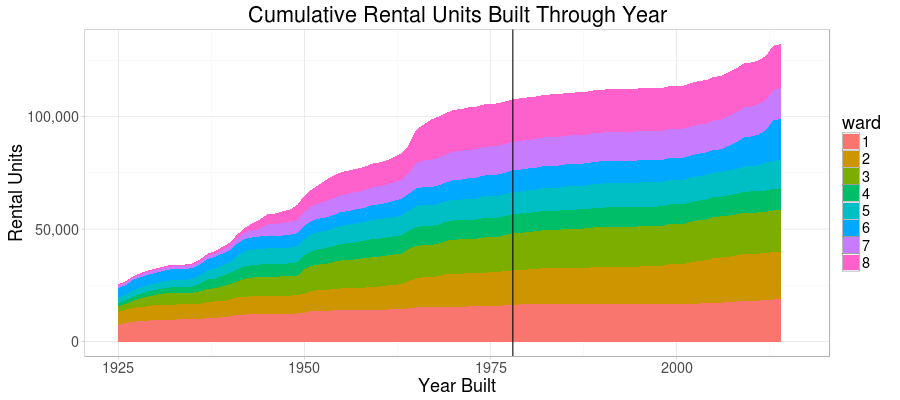
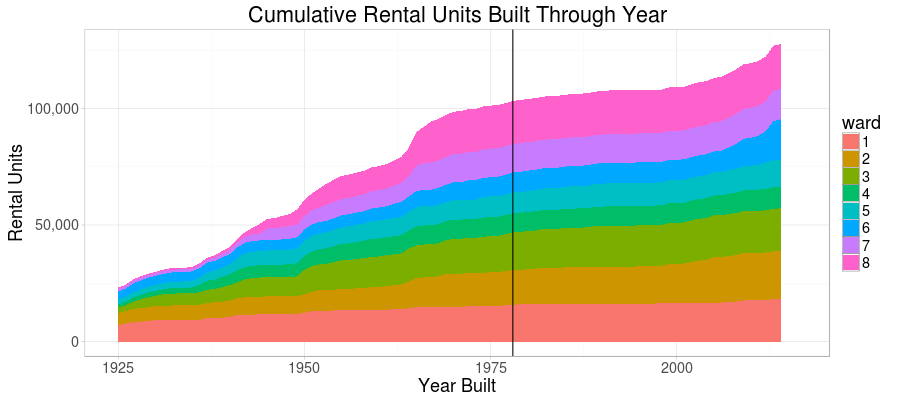
analysis fixes in aggregate rental units
Change the distribution applied to the "2-4" units use code from uniform to highly skewed to 2 units.

Subtract one from the aggregate units owned to go from aggregate *residential* units to aggregate *rental* units, per our assumption that each natural person owner occupies one of their own units (making it not rental).

diff --git a/residential-units.py b/residential-units.py
@@ -115,9 +115,10 @@ for fn in ("cama_residential.csv", "cama_condominium.csv", "cama_commercial.csv"
 			# We don't know how many units this structure has but it's between 2 and 4.
 			# We could take a best guess, like 3, but lumping everything into a single
 			# value makes further analysis look funky. So we'll spread it out between
-			# 2 and 4. We're making an assumption here that this use code is evenly
-			# spread between 2 and 4 units.
-			unit_count = random.choice([2,3,4])
+			# 2 and 4. Based on some post-hoc analysis, it looks like 2 and 3 units are
+			# more common than 4 -- it makes the results smoother when comparing to
+			# 5.
+			unit_count = random.choice([2,2,2,2,2,2,3,3,3,4])
 			exploded = True
 		elif use_code_info["units"] == "5":
 			unit_count = 5

diff --git a/owner-aggregate-units.py b/owner-aggregate-units.py
@@ -15,9 +15,14 @@ with open("/tmp/all-residential-units.csv", "w") as f:
 	header = None
 	for row in csv.reader(open("data/all-residential-units.csv")):
 		if header == None:
-			row.append("owner_aggregate_units")
+			if row[-1] != "owner_aggregate_units":
+				row.append("owner_aggregate_units")
+				has_col = False
+			else:
+				has_col = True
 			header = row
 		else:
+			if has_col: row.pop(-1)
 			owner_name = row[header.index("owner_name")]
 			row.append(aggregate_units[owner_name])
 		writer.writerow(row)

diff --git a/analysis.md b/analysis.md
@@ -34,7 +34,7 @@ From the CAMA dataset, we pulled out residential properties as identified by the
 
 CAMA's unit of analysis is an owned property, which can be a house, a large apartment building, or a single condominium unit. We broke out the CAMA data into residential housing units (i.e. apartments, single-family homes and condos, etc.).
 
-However, the CAMA data does not precisely indicate how many housing units are contained within each record, even though the CAMA datasets have a number-of-units field. Where this field was empty, which includes most small residential properties, we used the use code, which indicates if the property has 1, 2-4, 5, or an unknown number of housing units. Where the use code indicated 2-4 units, we randomly assigned each property 2, 3, or 4 housing units. Where the use code did not indicate a number, we omitted the property from our analysis.
+However, the CAMA data does not precisely indicate how many housing units are contained within each record, even though the CAMA datasets have a number-of-units field. Where this field was empty, which includes most small residential properties, we used the use code, which indicates if the property has 1, 2-4, 5, or an unknown number of housing units. Where the use code indicated 2-4 units, we randomly gave the property 2, 3, or 4 housing units using a non-uniform distribution: 60% to 2 units, 30% to 3, and 10% to 4. (This distribution was informed by a post-hoc analysis.) Where neither CAMA nor the use code indicated a number, we omitted the property from our analysis (but very few properties were excluded).
 
 #### Determining Rental Units
 
@@ -64,7 +64,9 @@ Residential housing units were marked as being a part of a **cooperative** if th
 
 Properties owned by a "natural person" may be exempt from rent stabilization if the owner owns four or fewer rental units in aggregate.
 
-To determine how many rental units a unit's owner owns, we looked at the CAMA owner name. We assumed that two units are owned by the same person just when their owner in CAMA is an identical text string. We do not know if this is over-estimating (because of name clashes) or under-estimating (because of variations in name spelling) the aggregate number of units owned by owners.
+To determine how many rental units a unit's owner owns, we first counted the total number of residential units an owner owns. We assumed that each building has a single owner and, to aggregate across properties, we assumed that two properties are owned by the same person just when their owner in the CAMA dataset is an identical text string. Per the assumption that "natural person" owners occupy one of their own units, we subtracted one from the ownership count to determine the number of _rental_ units owned.
+
+This analysis is very sensitive to the number of units determined to be in a property (see above). We do not know if CAMA owner text matching is over-estimating (because of name clashes) or under-estimating (because of variations in name spelling) the aggregate number of units owned by owners.
 
 ### Ward and ANC
 
@@ -74,21 +76,21 @@ We determined the ward and ANC that each residential housing unit is in using th
 
 ### Overview
 
-The data indicates that there are 310,751 residential housing units in the District of Columbia.
+The data indicates that there are 304,244 residential housing units in the District of Columbia.
 
-Of those, 177,951 were considered by our analysis to be rental housing units.
+Of those, 171,444 were considered by our analysis to be rental housing units.
 
 60% of rental housing units in the District are subject to rent stabilization. The remaining 40% are exempt (if the owner requests and receives an exemption) for the following reasons:
 
 | Exemption Type  | # of rental units | % of rental units |
 | --------------- | ----------------- | ----------------- |
-| Not Exempt            | 106,691 | 60% |
-| Owner Owns <= 4 Units | 25,460 | 14%  |
-| Built >= 1978         | 25,516 | 14%  |
+| (Not Exempt)            | 102,223 | 60% |
+| Built >= 1978         | 25,352 | 15%  |
+| Owner Owns <= 4 Units | 23,639 | 14%  |
 | Cooperative           | 12,079 | 7%   |
-| Government Owner      | 8,201  | 5%   |
+| Government Owner      | 8,147  | 5%   |
 
-(A very small number of units are exempt for multiple reasons. Units that fall under both of the first two exemptions in this table are counted only in the first exemption, so that the rows add up to 100%.)
+(A very small number of units are exempt for multiple reasons. Units that fall under both of the first two exemptions in this table are counted only in the second exemption, so that the rows add up to 100%.)
 
 Breaking this down by ward, we can see that Ward 6 in particular stands out as having many rental units but few subject to rent stabilization:
 
@@ -106,7 +108,7 @@ The chart below shows the cumulative number of rental units by their year built,
 
 Sweeping the line to the right, few new rental units would be brought under the law until about the year 2000.
 
-Changing the law from 1976 to 1996 --- a twenty-year shift --- would add 5,811 new units to rent stabilization, or 3% of rental units.
+Changing the law from 1976 to 1996 --- a twenty-year shift --- would add 5,732 new units to rent stabilization, or 3% of rental units.
 
 ### Aggregate Units Owned
 
@@ -114,17 +116,15 @@ We considered how a change in the threshold for aggregate owned units would affe
 
 Our analysis here is senstive to our assumption about the number of units within small residential housing structures, for which we mostly made a guess on the number of units informed by the structure's property use code, as well as on the quality of the CAMA ownership field. It is not clear how accurate the results in this section are.
 
-The chart below shows the units exempt from rent control because they are owned by a "natural person" who owns in aggregate four or fewer rental units in the District. The chart excludes units exempt for other reasons, e.g. units in a building built in or after 1978.
+The chart below shows the count of units by how many rental units the owner owns in aggregate. The units from 1 through 4 are potentially exempt from rent stabilization. The chart excludes units exempt for other reasons, e.g. units in a building built in or after 1978.
 
 ![Units by Owner's Aggregate Number of Owned Units](plots/by_aggregate_units_owned.png)
 
-The largest group of exemptions is for four-unit-owning owners. Changing the threshold in the law from 4 units to 3 would cause rent stabilization to apply to 10,148 new units, or 6% of rental units, according to our assumptions.
-
-The bar for 1 aggregate owned rental unit is zero following our assumption that such units are owner-occupied and are therefore not rental.
+Few units are owned by an owner who owns 4 rental units in aggregate, according to our assumptions. Changing the threshold in the law from 4 units to 3 would cause rent stabilization to apply to approximately 1,710 new units, or 1% of all rental units.
 
 ### Both Policy Changes
 
-A change in the law shifting the building permit year forward twenty years _and_ reducing the aggregate units cut-off from 4 to 3 would cause rent stabilization to apply to 16,189 more units, or 13% of all rental units, compared to current law.
+A change in the law shifting the building permit year forward twenty years _and_ reducing the aggregate units cut-off from 4 to 3 would cause rent stabilization to apply to 7,468 more units, or 4% of all rental units, compared to current law. (Almost no units are exempt for multiple reasons.)
 
 ### Analysis by Ward
 
